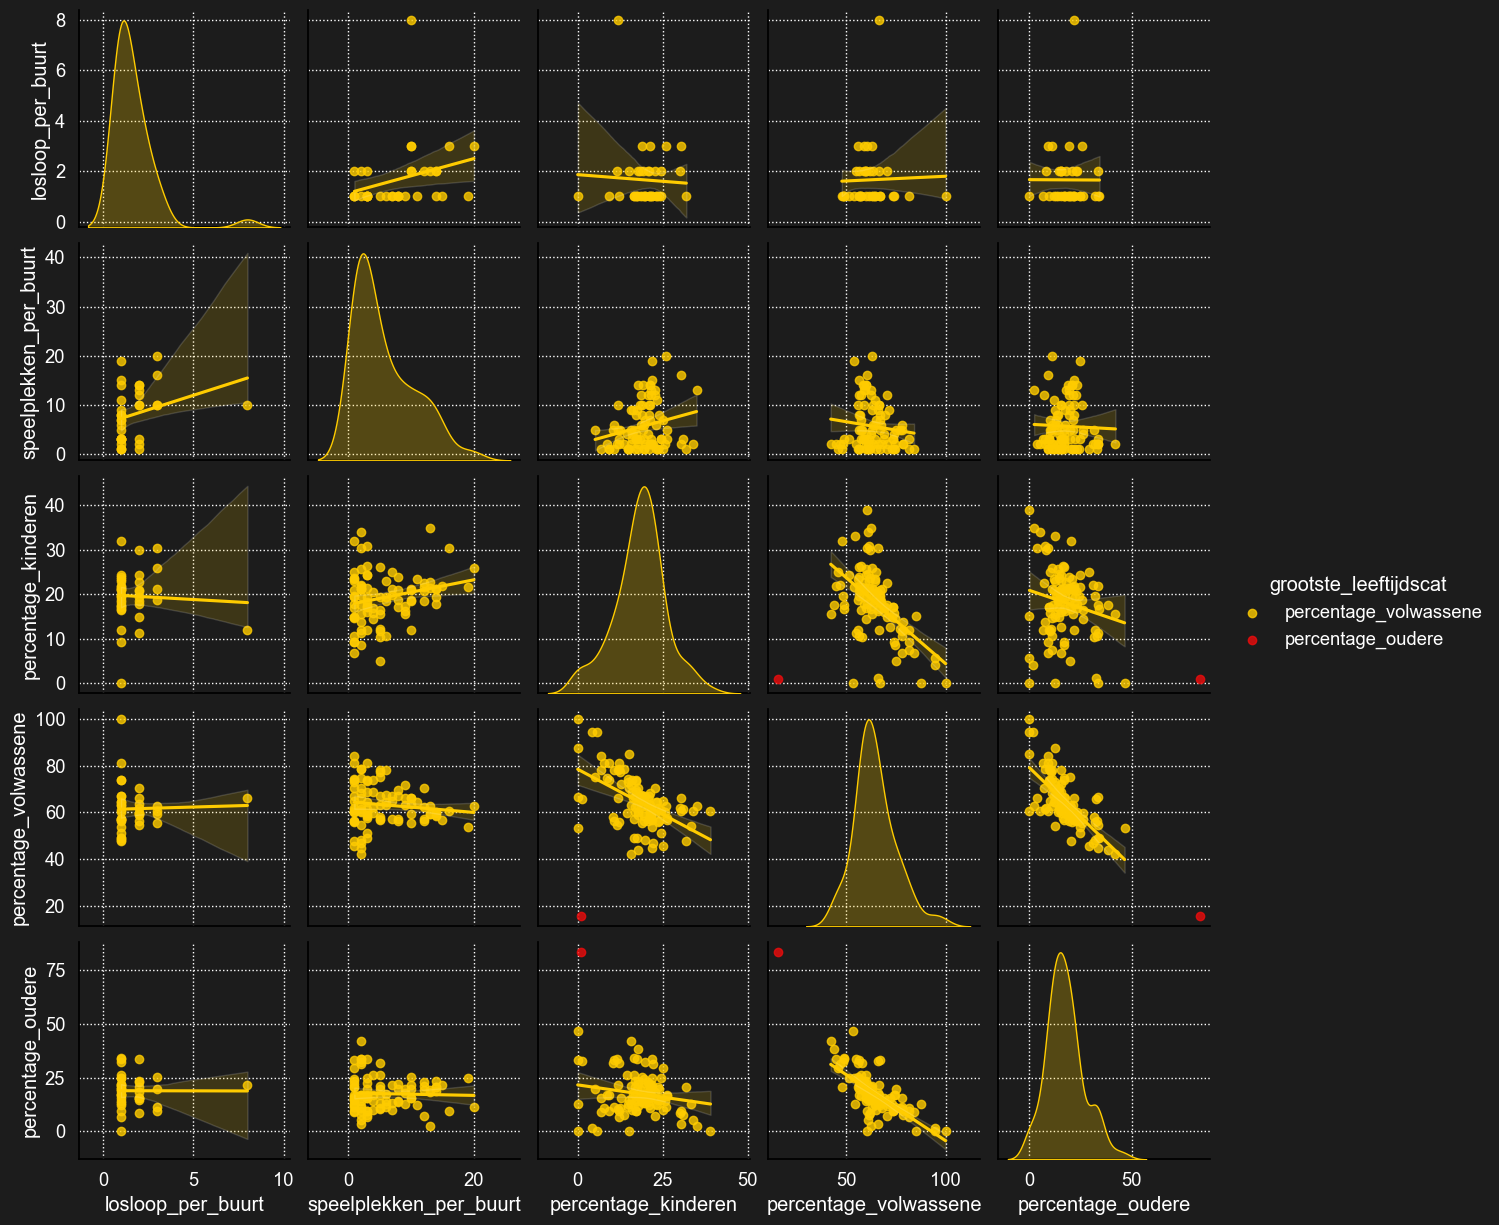
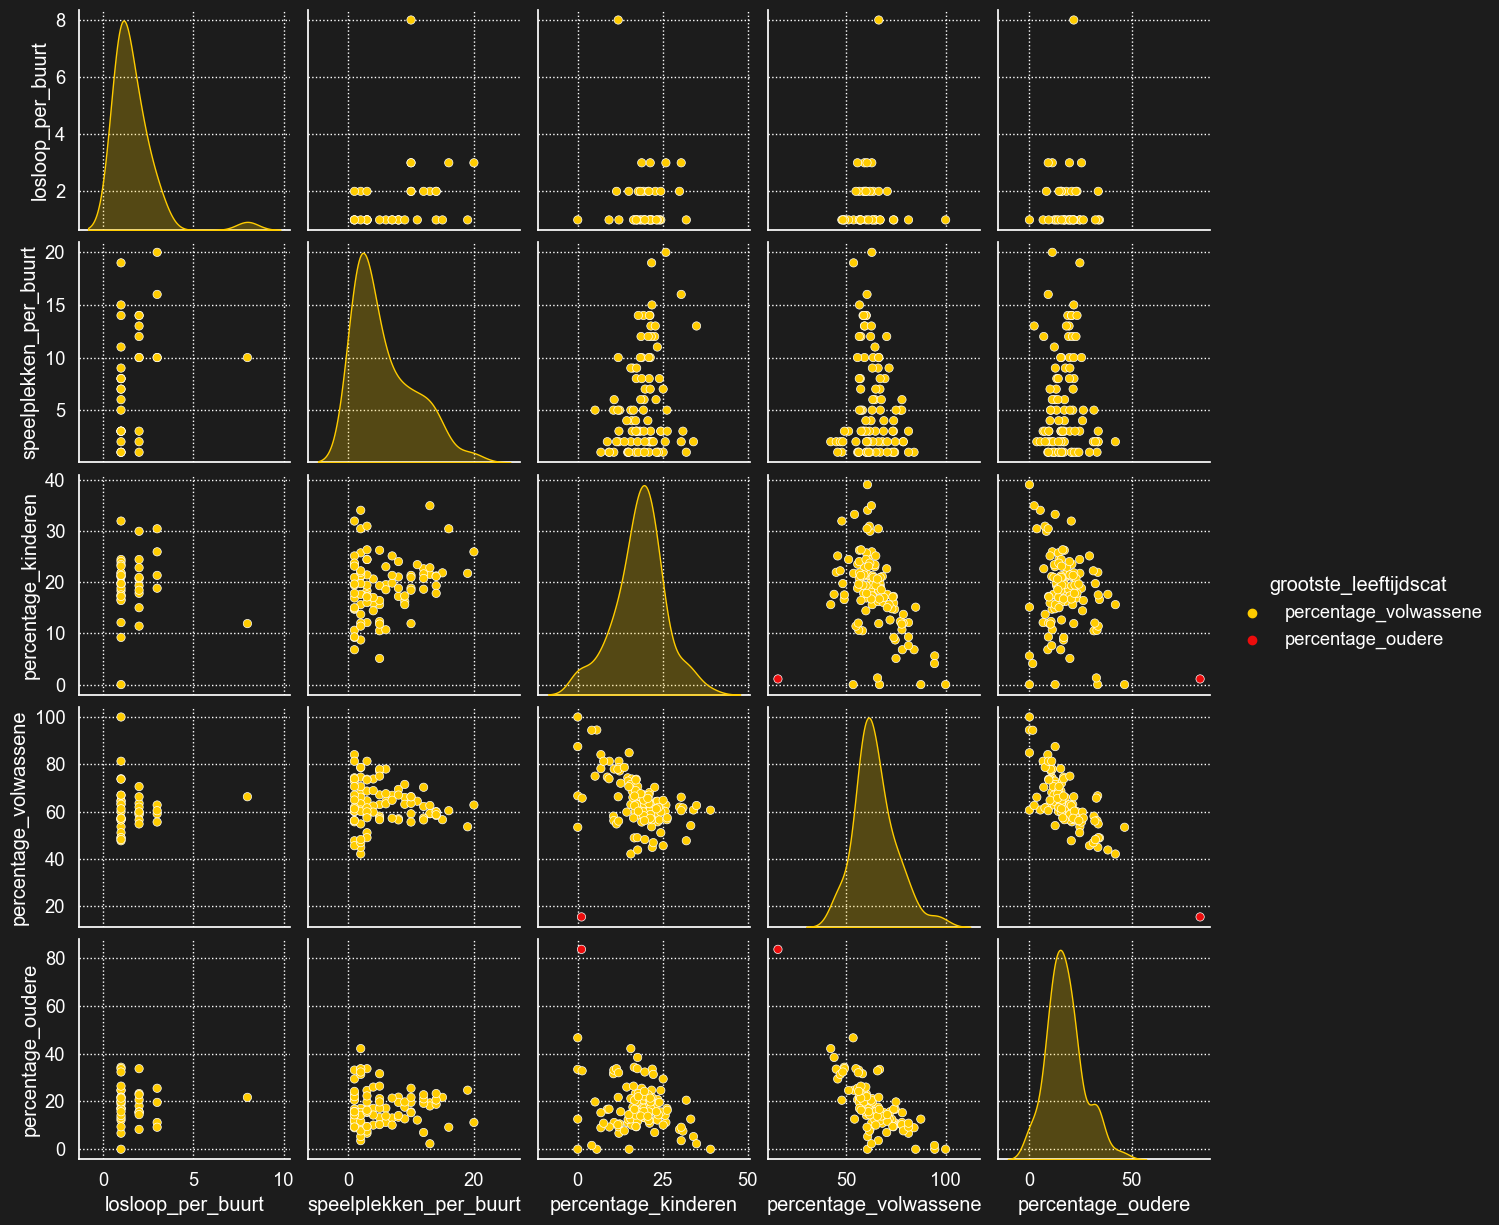
Edited: image change

diff --git a/front/src/pages/Playgrounds.js b/front/src/pages/Playgrounds.js
@@ -1,6 +1,5 @@
 import { Link } from "react-router-dom";
-import PlaygroundImage1 from "../assets/playgrounds.png";
-import PlaygroundImage2 from "../assets/playgrounds2.png";
+import PlaygroundImage from "../assets/playgrounds.png";
 import DataLeadText from "../components/DataLeadText";
 
 function Playgrounds() {
@@ -24,20 +23,15 @@ function Playgrounds() {
               "In the city of Eindhoven, there are many areas with both dog off-leash areas and playgrounds for children. To understand how the availability of these facilities is related to the age groups of residents, we collected data on these areas and the age groups of residents in each neighborhood. Using a scatter matrix, we found a strong correlation between the number of dog off-leash areas and the number of playgrounds. We also identified one neighborhood with a higher proportion of seniors than adults or children. This suggests that there may be a lower demand for playgrounds and dog off-leash areas in this neighborhood, and a greater need for public spaces suitable for seniors. By understanding the unique needs of each neighborhood, the city of Eindhoven can make informed decisions about where to invest in improving public spaces, and ultimately enhance the quality of life for all residents."
             }
           ></DataLeadText>
-          <h3
-            className="text-light"
-            style={{ marginTop: 50, marginBottom: 25 }}
-          >
-            Scatterchart 1
-          </h3>
-          <img src={PlaygroundImage1} alt="react logo" className="w-100" />
-          <h3
-            className="text-light"
-            style={{ marginTop: 50, marginBottom: 25 }}
-          >
-            Scatterchart 2
-          </h3>
-          <img src={PlaygroundImage2} alt="react logo" className="w-100" />
+          <DataLeadText
+            title={
+              "Chart 1: Off-leash Dog Areas, Children's Play Areas, and Demographics"
+            }
+            text={
+              "Based on the scatter plot matrix analysis, I have plotted various variables against each other, including off-leash dog areas, children's play areas, and the percentages of children, adults, and seniors in each neighborhood. The graphs reveal that there is one neighborhood that has a higher proportion of seniors than children or adults, which is an outlier. Additionally, it appears that certain neighborhoods have a high percentage of children but lack adequate play areas."
+            }
+          ></DataLeadText>
+          <img src={PlaygroundImage} alt="react logo" className="w-100" />
           <br></br>
           <br></br>
         </div>

diff --git a/front/src/pages/PublicReports.js b/front/src/pages/PublicReports.js
@@ -25,11 +25,11 @@ function PublicReports() {
             }
           ></DataLeadText>
           <h3 className="text-light" style={{ marginTop: 50 }}>
-            Average amount of reports per resident (Bar chart)
+            Chart 1: Average amount of reports per resident
           </h3>
           <BarCategorySelect></BarCategorySelect>
           <h3 className="text-light" style={{ marginTop: 50 }}>
-            Public reports per amount of residents (Scatter plot)
+            Chart 2: Public reports per amount of residents
           </h3>
           <ScatterCategorySelect></ScatterCategorySelect>
           <br></br>
